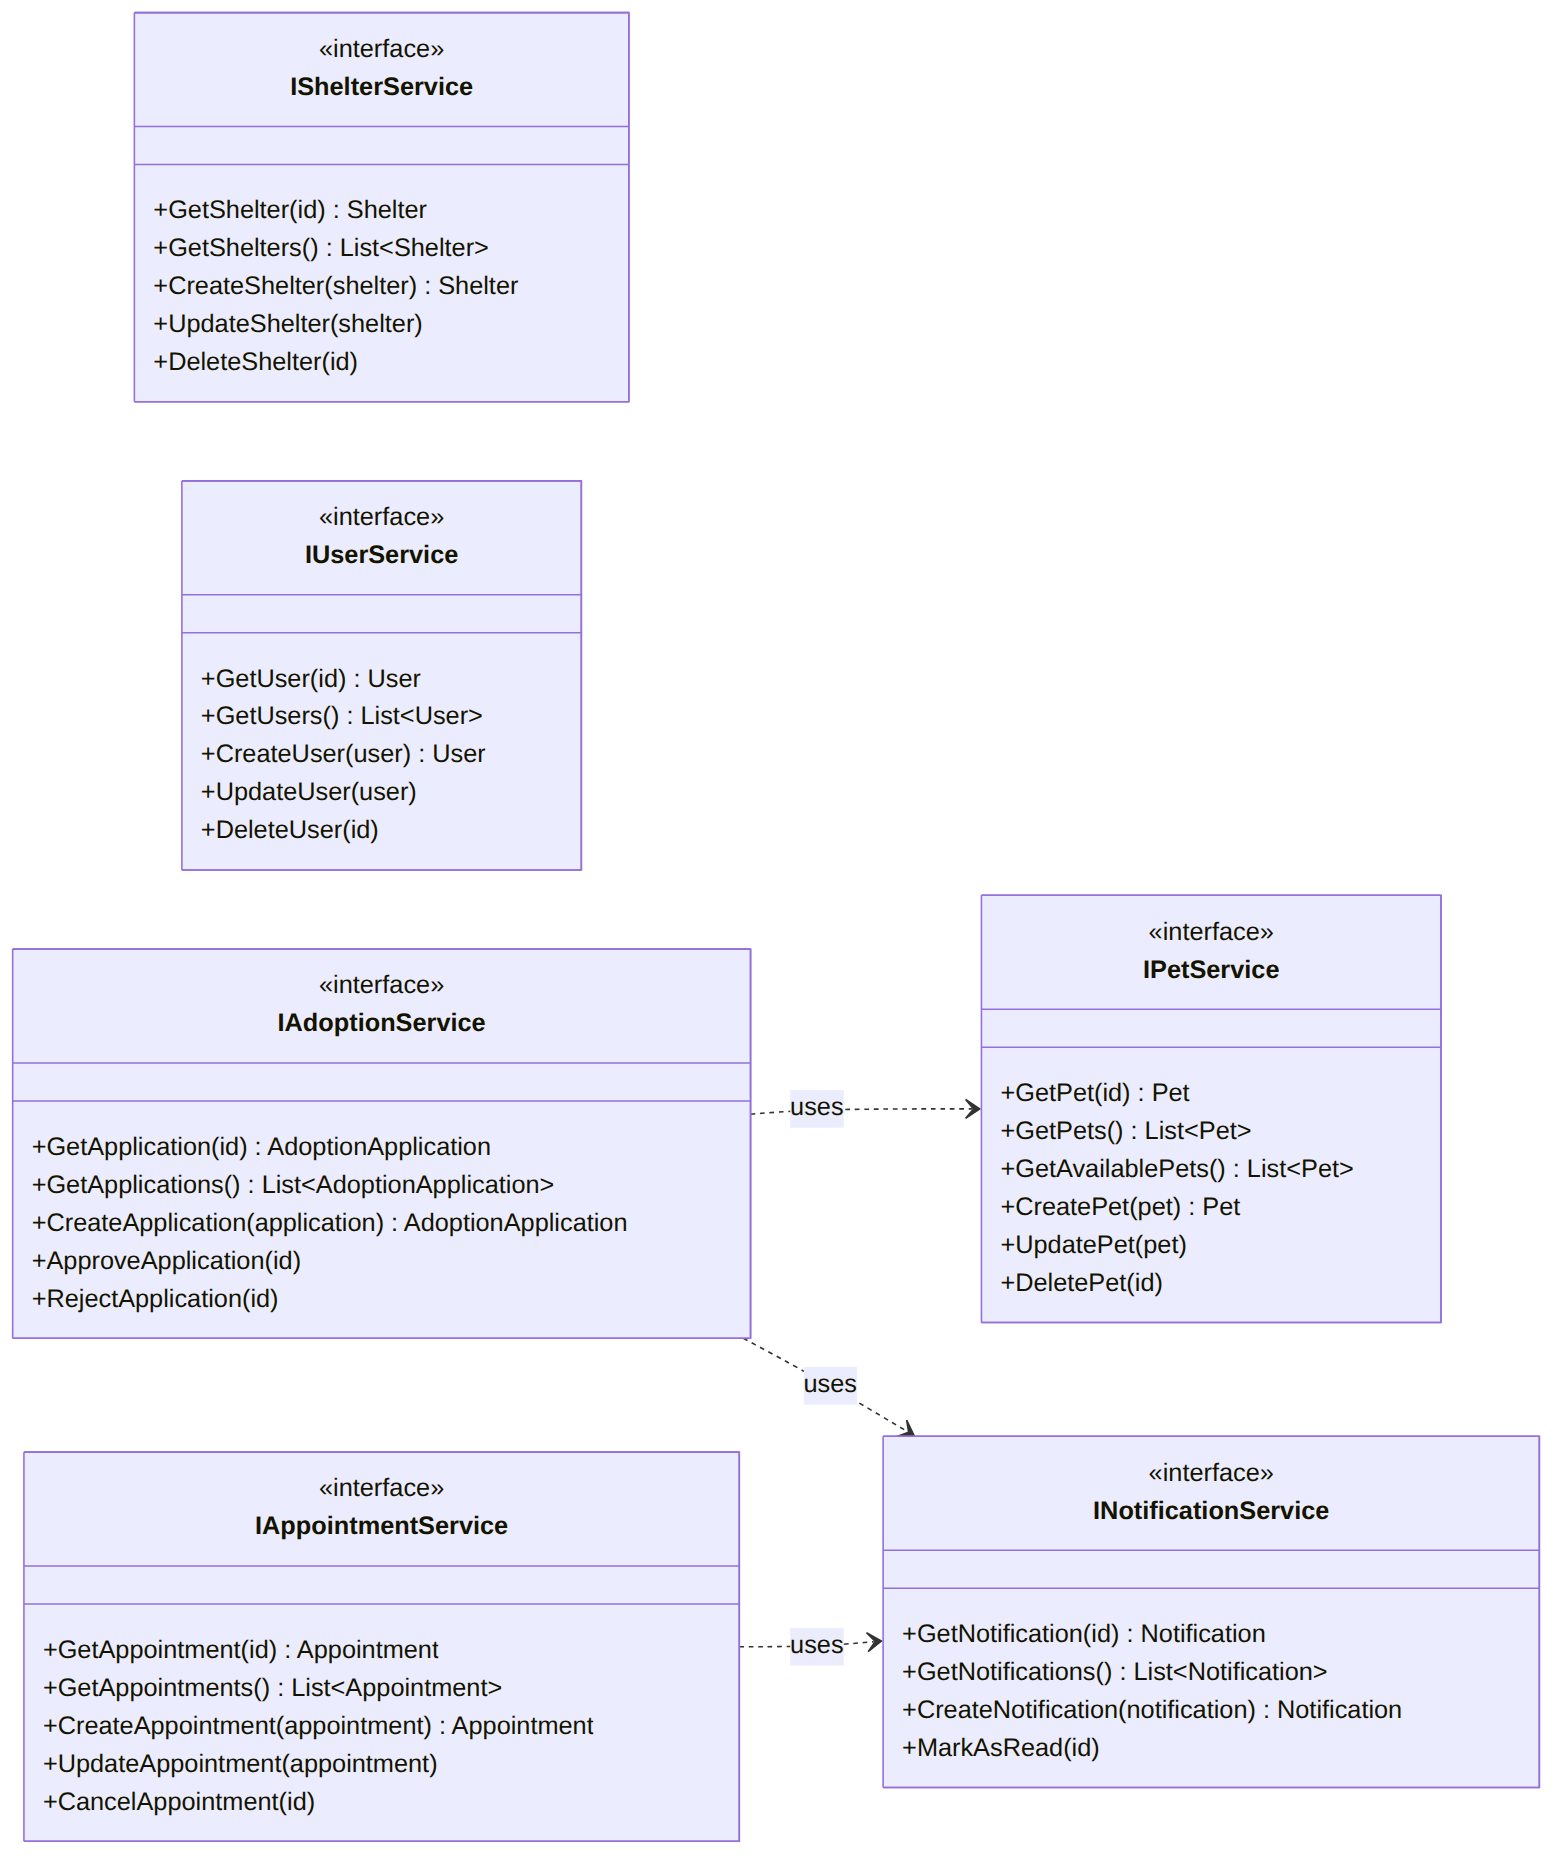
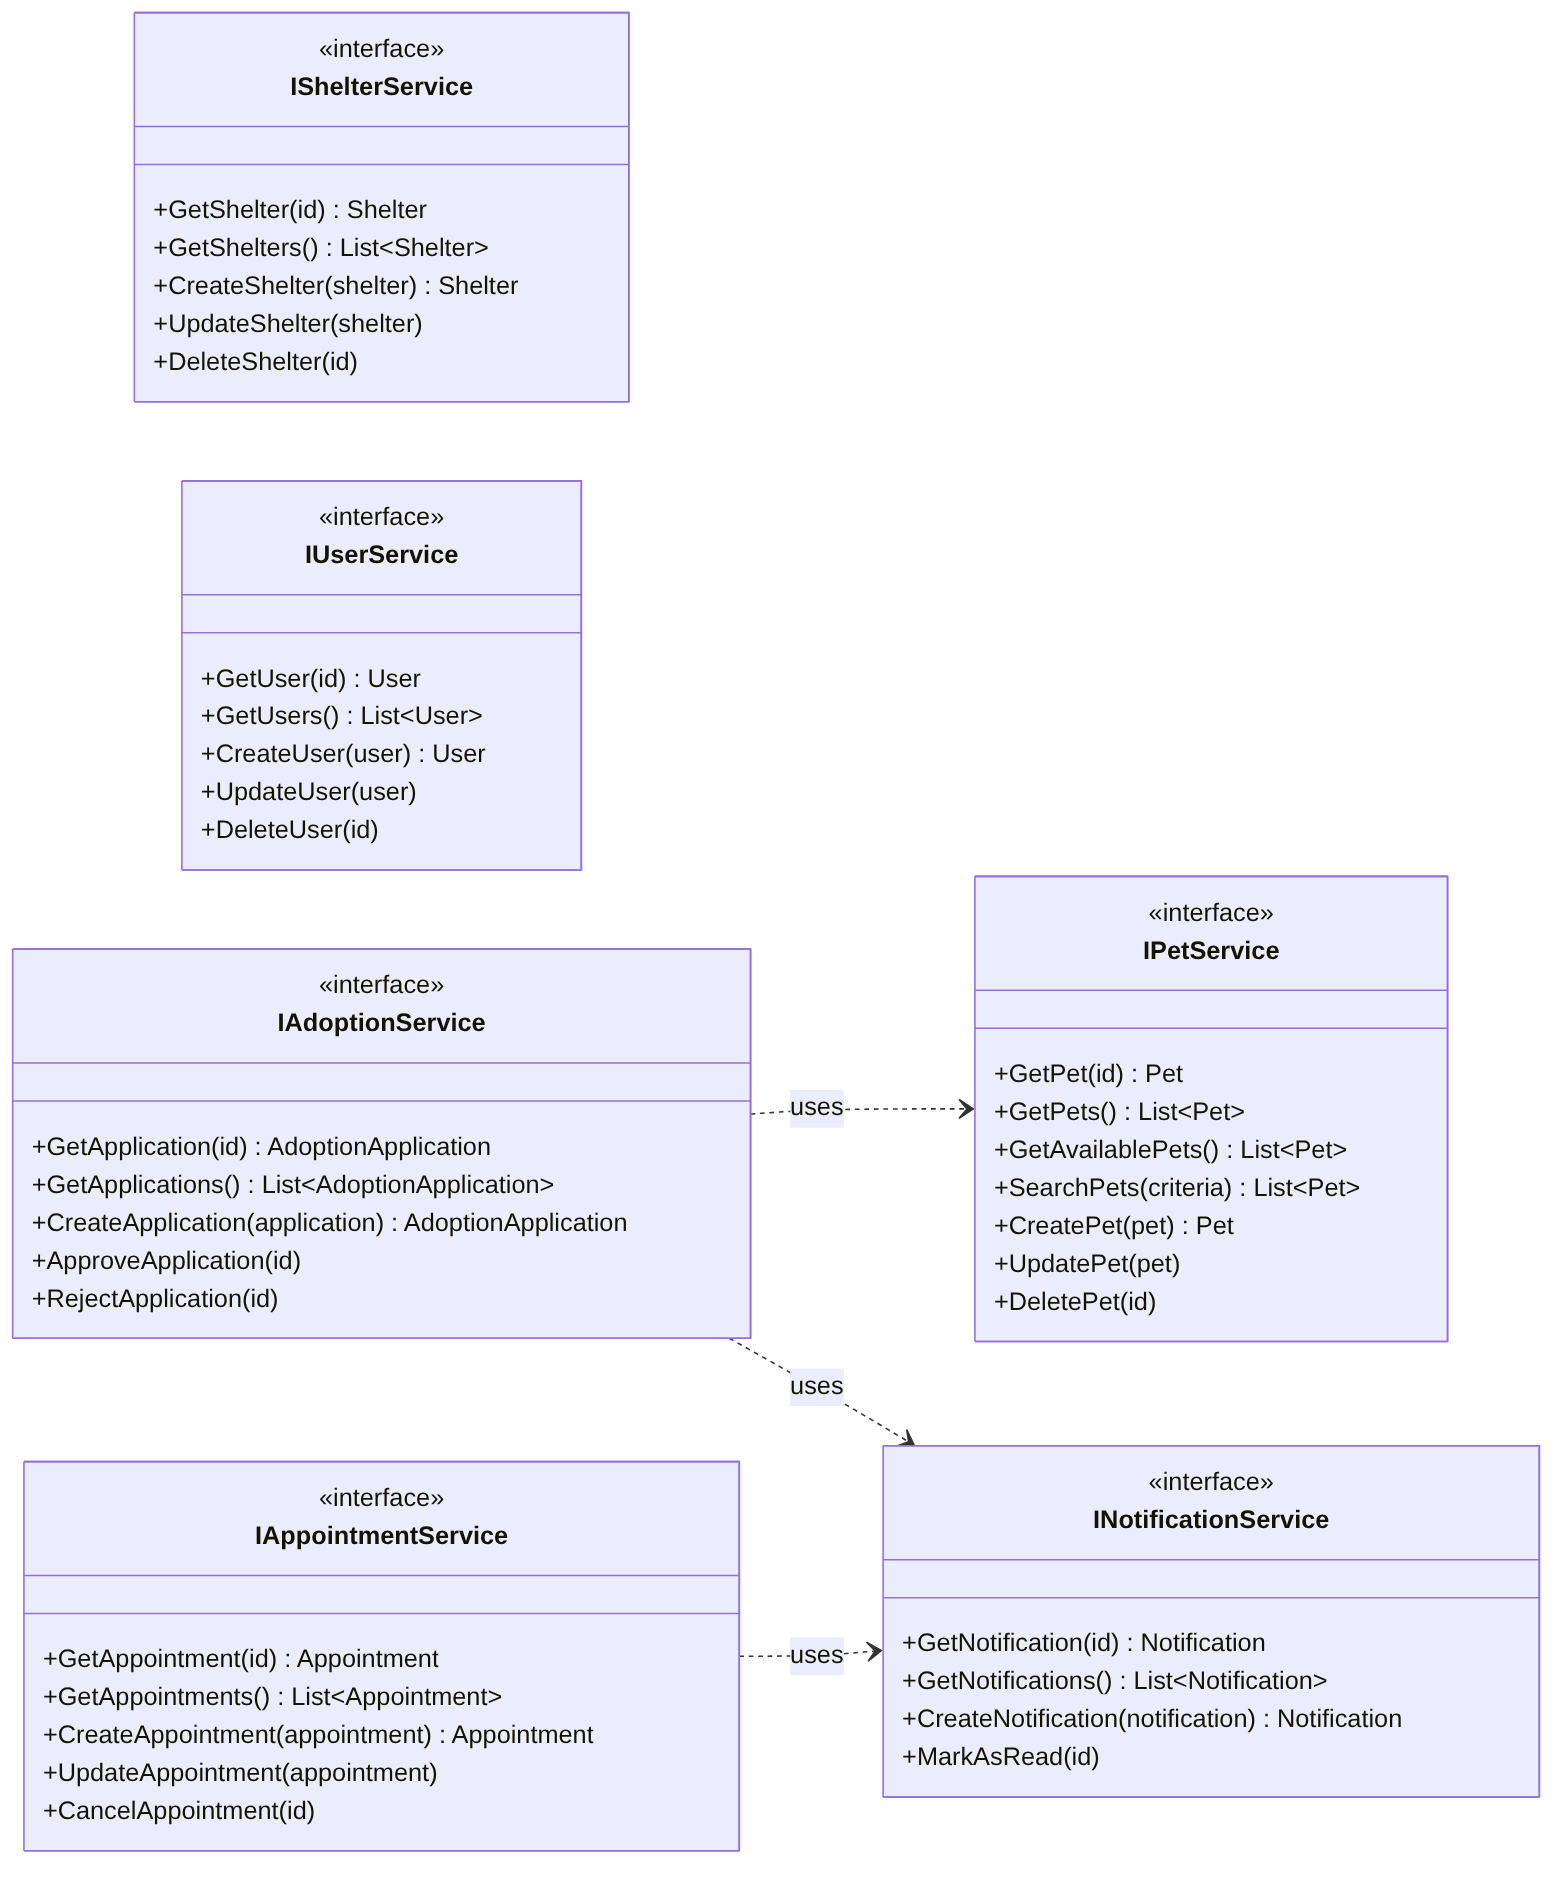
Milestone 2 step 6: filter pets by species, age and availability
Add IPetService.SearchPets with PetSearchCriteria, an in-memory
IPetService with fake seed data, and GET /api/pets with validated
query DTO and response DTO. Update .http file, class diagram and
README. Includes the R-PIV log.

diff --git a/src/Animal.Data/Services/InMemoryPetService.cs b/src/Animal.Data/Services/InMemoryPetService.cs
@@ -1,0 +1,112 @@
+using Animal.Data.SeedData;
+using Animal.Domain.Models;
+using Animal.Domain.Services;
+
+namespace Animal.Data.Services
+{
+    // Temporary IPetService backed by a list. Swap for an EF Core implementation once AnimalDbContext exists.
+    public class InMemoryPetService : IPetService
+    {
+        private readonly List<Pet> _pets;
+        private readonly object _lock = new();
+
+        public InMemoryPetService() : this(PetSeedData.GetPets())
+        {
+        }
+
+        public InMemoryPetService(IEnumerable<Pet> pets)
+        {
+            _pets = pets.ToList();
+        }
+
+        public Pet GetPet(int id)
+        {
+            lock (_lock)
+            {
+                return _pets.FirstOrDefault(p => p.Id == id)
+                    ?? throw new KeyNotFoundException($"Pet {id} was not found.");
+            }
+        }
+
+        public List<Pet> GetPets()
+        {
+            lock (_lock)
+            {
+                return _pets.OrderBy(p => p.Id).ToList();
+            }
+        }
+
+        public List<Pet> GetAvailablePets()
+        {
+            return SearchPets(new PetSearchCriteria { AvailableOnly = true });
+        }
+
+        public List<Pet> SearchPets(PetSearchCriteria criteria)
+        {
+            ArgumentNullException.ThrowIfNull(criteria);
+
+            var species = criteria.Species?.Trim();
+
+            lock (_lock)
+            {
+                IEnumerable<Pet> query = _pets;
+
+                if (!string.IsNullOrEmpty(species))
+                {
+                    query = query.Where(p => string.Equals(p.Species, species, StringComparison.OrdinalIgnoreCase));
+                }
+
+                if (criteria.MaxAge.HasValue)
+                {
+                    query = query.Where(p => p.Age <= criteria.MaxAge.Value);
+                }
+
+                if (criteria.AvailableOnly)
+                {
+                    query = query.Where(p => p.IsAvailable);
+                }
+
+                return query.OrderBy(p => p.Id).ToList();
+            }
+        }
+
+        public Pet CreatePet(Pet pet)
+        {
+            ArgumentNullException.ThrowIfNull(pet);
+
+            lock (_lock)
+            {
+                pet.Id = _pets.Count == 0 ? 1 : _pets.Max(p => p.Id) + 1;
+                _pets.Add(pet);
+                return pet;
+            }
+        }
+
+        public void UpdatePet(Pet pet)
+        {
+            ArgumentNullException.ThrowIfNull(pet);
+
+            lock (_lock)
+            {
+                var index = _pets.FindIndex(p => p.Id == pet.Id);
+                if (index < 0)
+                {
+                    throw new KeyNotFoundException($"Pet {pet.Id} was not found.");
+                }
+
+                _pets[index] = pet;
+            }
+        }
+
+        public void DeletePet(int id)
+        {
+            lock (_lock)
+            {
+                if (_pets.RemoveAll(p => p.Id == id) == 0)
+                {
+                    throw new KeyNotFoundException($"Pet {id} was not found.");
+                }
+            }
+        }
+    }
+}

diff --git a/src/Animal.API/Controllers/PetsController.cs b/src/Animal.API/Controllers/PetsController.cs
@@ -1,0 +1,36 @@
+using Animal.API.Contracts;
+using Animal.Domain.Models;
+using Animal.Domain.Services;
+using Microsoft.AspNetCore.Mvc;
+
+namespace Animal.API.Controllers
+{
+    [ApiController]
+    [Route("api/[controller]")]
+    public class PetsController : ControllerBase
+    {
+        private readonly IPetService _petService;
+
+        public PetsController(IPetService petService)
+        {
+            _petService = petService;
+        }
+
+        // GET api/pets?species=dog&maxAge=5&availableOnly=true
+        [HttpGet]
+        [ProducesResponseType(StatusCodes.Status200OK)]
+        [ProducesResponseType(StatusCodes.Status400BadRequest)]
+        public ActionResult<IEnumerable<PetResponse>> GetPets([FromQuery] PetSearchQuery query)
+        {
+            var criteria = new PetSearchCriteria
+            {
+                Species = query.Species,
+                MaxAge = query.MaxAge,
+                AvailableOnly = query.AvailableOnly
+            };
+
+            var pets = _petService.SearchPets(criteria);
+            return Ok(pets.Select(PetResponse.FromPet));
+        }
+    }
+}

diff --git a/src/Animal.Data/SeedData/PetSeedData.cs b/src/Animal.Data/SeedData/PetSeedData.cs
@@ -1,0 +1,17 @@
+using Animal.Domain.Models;
+
+namespace Animal.Data.SeedData
+{
+    // Fake pets used until the EF Core database exists. Not real animals or shelters.
+    public static class PetSeedData
+    {
+        public static List<Pet> GetPets() =>
+        [
+            new Pet { Id = 1, Name = "Biscuit", Species = "Dog", Breed = "Beagle", Age = 3, IsAvailable = true, ShelterId = 1 },
+            new Pet { Id = 2, Name = "Mochi", Species = "Cat", Breed = "Siamese", Age = 1, IsAvailable = true, ShelterId = 1 },
+            new Pet { Id = 3, Name = "Rex", Species = "Dog", Breed = "German Shepherd", Age = 7, IsAvailable = false, ShelterId = 2 },
+            new Pet { Id = 4, Name = "Pepper", Species = "Rabbit", Breed = "Holland Lop", Age = 2, IsAvailable = true, ShelterId = 2 },
+            new Pet { Id = 5, Name = "Luna", Species = "Cat", Breed = "Domestic Shorthair", Age = 9, IsAvailable = true, ShelterId = 1 }
+        ];
+    }
+}

diff --git a/src/Animal.API/Program.cs b/src/Animal.API/Program.cs
@@ -1,8 +1,13 @@
+using Animal.Data.Services;
+using Animal.Domain.Services;
+
 var builder = WebApplication.CreateBuilder(args);
 
 // Add services to the container.
 
 builder.Services.AddControllers();
+// Factory on purpose: otherwise DI picks the IEnumerable<Pet> constructor and injects an empty list.
+builder.Services.AddSingleton<IPetService>(_ => new InMemoryPetService());
 // Learn more about configuring OpenAPI at https://aka.ms/aspnet/openapi
 builder.Services.AddOpenApi();
 

diff --git a/src/Animal.API/Contracts/PetSearchQuery.cs b/src/Animal.API/Contracts/PetSearchQuery.cs
@@ -1,0 +1,16 @@
+using System.ComponentModel.DataAnnotations;
+
+namespace Animal.API.Contracts
+{
+    // Query string for GET /api/pets. Every filter is optional.
+    public class PetSearchQuery
+    {
+        [StringLength(50)]
+        public string? Species { get; set; }
+
+        [Range(0, 100)]
+        public int? MaxAge { get; set; }
+
+        public bool AvailableOnly { get; set; }
+    }
+}

diff --git a/src/Animal.API/Contracts/PetResponse.cs b/src/Animal.API/Contracts/PetResponse.cs
@@ -1,0 +1,10 @@
+using Animal.Domain.Models;
+
+namespace Animal.API.Contracts
+{
+    public record PetResponse(int Id, string Name, string Species, string Breed, int Age, bool IsAvailable, int ShelterId)
+    {
+        public static PetResponse FromPet(Pet pet) =>
+            new(pet.Id, pet.Name, pet.Species, pet.Breed, pet.Age, pet.IsAvailable, pet.ShelterId);
+    }
+}

diff --git a/src/Animal.Domain/Models/PetSearchCriteria.cs b/src/Animal.Domain/Models/PetSearchCriteria.cs
@@ -1,0 +1,10 @@
+namespace Animal.Domain.Models
+{
+    // Optional filters for IPetService.SearchPets. A null or empty value means "don't filter on this".
+    public class PetSearchCriteria
+    {
+        public string? Species { get; set; }
+        public int? MaxAge { get; set; }
+        public bool AvailableOnly { get; set; }
+    }
+}

diff --git a/src/Animal.Domain/Services/IPetService.cs b/src/Animal.Domain/Services/IPetService.cs
@@ -10,6 +10,7 @@ namespace Animal.Domain.Services
         Pet GetPet(int id);
         List<Pet> GetPets();
         List<Pet> GetAvailablePets();
+        List<Pet> SearchPets(PetSearchCriteria criteria);
         Pet CreatePet(Pet pet);
         void UpdatePet(Pet pet);
         void DeletePet(int id);

diff --git a/docs/milestone-2/step6-rpiv-log.md b/docs/milestone-2/step6-rpiv-log.md
@@ -1,0 +1,39 @@
+# Step 6: Implement with R-PIV
+
+Owner: Darcy
+
+The code for every file in the plan is in `src/`. The README and class diagram were updated too.
+
+## How to run each step in Copilot
+
+For each step in `implementation-plan.md`, in Agent mode:
+
+```
+Do step <N> of docs/milestone-2/implementation-plan.md only. Follow .github/copilot-instructions.md.
+When you're done, run dotnet build and show me the diff. Don't start the next step.
+```
+
+Review the diff, fix anything wrong, then move on. Fill in one row per step below.
+
+## Log
+
+| Step | Research | Plan | Implement | Validate | Human correction |
+|---|---|---|---|---|---|
+| 1 Domain | Read `Pet.cs`, `IPetService.cs` | Add criteria class + 1 method | `PetSearchCriteria.cs`, `IPetService.cs` | `dotnet build` OK | <!-- --> |
+| 2 Data | No DbContext, empty `Animal.Data` | In-memory service, seed data, reuse `SearchPets` for `GetAvailablePets` | `PetSeedData.cs`, `InMemoryPetService.cs` | build OK, 19 unit tests pass | <!-- --> |
+| 3 Contracts | Rules: DTOs in `Contracts/`, validate input | Query DTO + response DTO | `PetSearchQuery.cs`, `PetResponse.cs` | build OK | <!-- --> |
+| 4 Controller | Rules: thin controller, `[ApiController]`, plural name | Map query to criteria, call service, map to DTO | `PetsController.cs` | build OK | <!-- --> |
+| 5 Wiring | Nothing registered yet | `AddSingleton` | `Program.cs` | **Failed manual check:** API returned `[]` | Changed to a factory registration, see below |
+| 6 Tests | | | (Aiden) | 30/30 pass | |
+| 7 Docs | `.http` still had weatherforecast, diagram missing `SearchPets` | Update both | `Animal.API.http`, README, `.mmd` | Diagram renders | PNG re-exported with mermaid-cli |
+
+## The correction in step 5
+
+`builder.Services.AddSingleton<IPetService, InMemoryPetService>()` compiled and every test passed, but `GET /api/pets` returned `[]` on the real app. DI chose the `InMemoryPetService(IEnumerable<Pet>)` constructor because it can always resolve `IEnumerable<T>` (as an empty list). The fix:
+
+```csharp
+// Factory on purpose: otherwise DI picks the IEnumerable<Pet> constructor and injects an empty list.
+builder.Services.AddSingleton<IPetService>(_ => new InMemoryPetService());
+```
+
+Aiden added `PetsStartupTests` so this gets caught automatically next time.

diff --git a/README.md b/README.md
@@ -80,6 +80,7 @@ classDiagram
         +GetPet(id) Pet
         +GetPets() List~Pet~
         +GetAvailablePets() List~Pet~
+        +SearchPets(criteria) List~Pet~
         +CreatePet(pet) Pet
         +UpdatePet(pet)
         +DeletePet(id)
